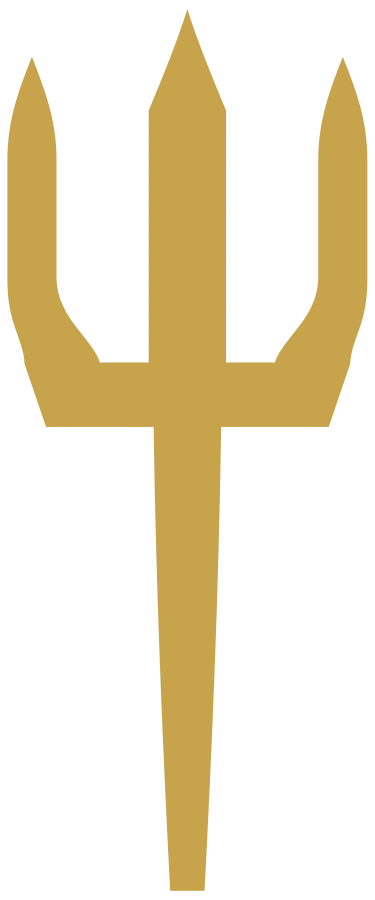
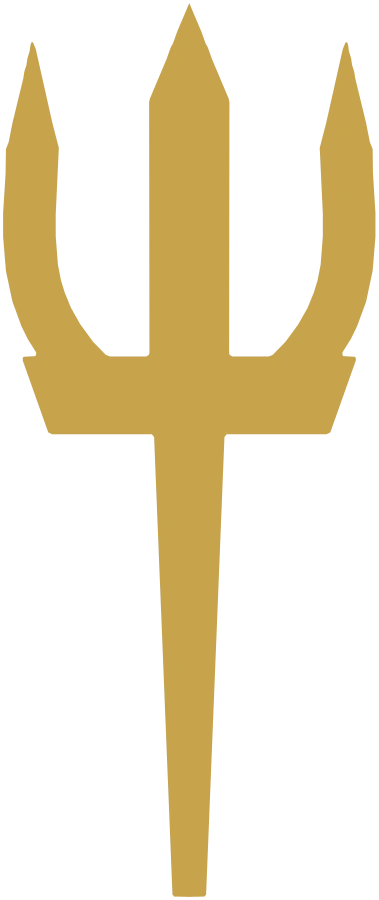
Trident traced from source instead of hand-built: 0.886 -> 0.994 match

diff --git a/index.html b/index.html
@@ -279,7 +279,7 @@ footer small{display:block;font-family:var(--imp);letter-spacing:.3em;text-trans
 <body>
 <div class="strip" id="strip">Casualness <span>Creates</span> Casualties</div>
 <nav class="nav" id="nav"><div class="wrap">
-  <a class="brand" href="index.html"><svg class="mark" viewBox="-61 -3 122 293" fill="#C8A34B" aria-hidden="true"><path d="M0,0 C 3.5,11 8,22 12.6,33 L 12.6,115 L 28.5,115 C 31,107 42,101 42.6,88 L 42.6,49 C 42.6,36 46.5,26 50.6,15.5 C 54.8,26 58.6,36 58.6,49 L 58.6,88 C 58.6,103 53.4,107 53,115.5 L 46,136 L 11,136 C 10.2,190 8,241 5.6,287 L-5.6,287 C-8,241 -10.2,190 -11,136 L-46,136 L-53,115.5 C-53.4,107 -58.6,103 -58.6,88 L-58.6,49 C-58.6,36 -54.8,26 -50.6,15.5 C-46.5,26 -42.6,36 -42.6,49 L-42.6,88 C-42,101 -31,107 -28.5,115 L-12.6,115 L-12.6,33 C-8,22 -3.5,11 -0,0 Z"/></svg><span>Lead <b>Elite</b> Academy</span></a>
+  <a class="brand" href="index.html"><svg class="mark" viewBox="-60.8 -1 121.6 289.1" fill="#C8A34B" aria-hidden="true"><path d="M0.0,0.0L3.9,9.2L5.3,13.1L5.9,14.1L7.3,18.0L12.7,30.8L12.9,31.9L12.8,112.4L13.0,113.0L13.8,113.5L25.5,113.5L26.8,113.0L30.9,108.8L35.0,103.2L38.0,97.9L40.0,93.0L41.2,89.1L42.2,84.0L42.9,74.9L42.9,67.8L41.9,46.5L44.0,38.4L49.3,14.8L50.2,12.6L50.7,12.6L51.0,13.4L51.3,15.5L52.0,17.8L52.3,19.9L53.0,22.1L53.3,24.1L56.8,38.5L58.0,44.6L58.9,46.9L59.0,54.6L59.8,67.4L59.8,75.1L58.9,86.0L56.8,95.9L53.9,103.8L51.9,107.9L49.2,112.2L49.2,113.0L49.5,113.4L53.2,113.6L53.5,114.0L53.5,114.8L45.3,137.9L44.0,138.5L12.0,138.5L11.3,139.4L5.4,286.4L4.8,287.0L-4.8,287.1L4.8,287.1L-4.8,287.0L-5.4,286.4L-11.3,139.4L-12.0,138.5L-44.0,138.5L-45.3,137.9L-53.5,114.8L-53.5,114.0L-53.2,113.6L-49.5,113.4L-49.2,113.0L-49.2,112.2L-51.9,107.9L-53.9,103.8L-56.8,95.9L-58.9,86.0L-59.8,75.1L-59.8,67.4L-59.0,54.6L-58.9,46.9L-58.0,44.6L-56.8,38.5L-53.3,24.1L-53.0,22.1L-52.3,19.9L-52.0,17.8L-51.3,15.5L-51.0,13.4L-50.7,12.6L-50.2,12.6L-49.3,14.8L-44.0,38.4L-41.9,46.5L-42.9,67.8L-42.9,74.9L-42.2,84.0L-41.2,89.1L-40.0,93.0L-38.0,97.9L-35.0,103.2L-30.9,108.8L-26.8,113.0L-25.5,113.5L-13.8,113.5L-13.0,113.0L-12.8,112.4L-12.9,31.9L-12.7,30.8L-7.3,18.0L-5.9,14.1L-5.3,13.1L-3.9,9.2Z"/></svg><span>Lead <b>Elite</b> Academy</span></a>
   <div class="links"><a href="#elite">The framework</a><a href="#year">The year</a><a href="#trainer">Brandon</a><a href="#book">The book</a><a href="#who">Who it’s for</a></div>
   <div class="navbtns cta"><a class="btn" href="#call" data-book>Book a call</a><a class="btn ghost" href="https://portal.leadeliteacademy.com">Member login</a></div>
   <button class="burger" id="burger" aria-label="Open menu">☰</button>
@@ -417,7 +417,7 @@ footer small{display:block;font-family:var(--imp);letter-spacing:.3em;text-trans
   <h2 class="rv d1">Stop being the <em>bottleneck.</em></h2>
   <p class="lead rv d2">One call. Brandon and the team walk you through how the year runs, what your leaders will actually do each week, and what it costs for your company. No deck to sit through.</p>
   <div class="ctas rv d3"><a class="btn" href="#call" data-book>Book a call <svg viewBox="0 0 24 24" fill="none" stroke="currentColor" stroke-width="2"><path d="M5 12h14M13 5l7 7-7 7"/></svg></a><a class="btn ghost" href="https://portal.leadeliteacademy.com">Member login</a></div>
-  <div class="lockup rv d3"><div class="rule"></div><svg class="mark" viewBox="-61 -3 122 293" fill="#C8A34B" aria-hidden="true"><path d="M0,0 C 3.5,11 8,22 12.6,33 L 12.6,115 L 28.5,115 C 31,107 42,101 42.6,88 L 42.6,49 C 42.6,36 46.5,26 50.6,15.5 C 54.8,26 58.6,36 58.6,49 L 58.6,88 C 58.6,103 53.4,107 53,115.5 L 46,136 L 11,136 C 10.2,190 8,241 5.6,287 L-5.6,287 C-8,241 -10.2,190 -11,136 L-46,136 L-53,115.5 C-53.4,107 -58.6,103 -58.6,88 L-58.6,49 C-58.6,36 -54.8,26 -50.6,15.5 C-46.5,26 -42.6,36 -42.6,49 L-42.6,88 C-42,101 -31,107 -28.5,115 L-12.6,115 L-12.6,33 C-8,22 -3.5,11 -0,0 Z"/></svg><div class="slogan">Casualness <span>Creates</span> Casualties</div></div>
+  <div class="lockup rv d3"><div class="rule"></div><svg class="mark" viewBox="-60.8 -1 121.6 289.1" fill="#C8A34B" aria-hidden="true"><path d="M0.0,0.0L3.9,9.2L5.3,13.1L5.9,14.1L7.3,18.0L12.7,30.8L12.9,31.9L12.8,112.4L13.0,113.0L13.8,113.5L25.5,113.5L26.8,113.0L30.9,108.8L35.0,103.2L38.0,97.9L40.0,93.0L41.2,89.1L42.2,84.0L42.9,74.9L42.9,67.8L41.9,46.5L44.0,38.4L49.3,14.8L50.2,12.6L50.7,12.6L51.0,13.4L51.3,15.5L52.0,17.8L52.3,19.9L53.0,22.1L53.3,24.1L56.8,38.5L58.0,44.6L58.9,46.9L59.0,54.6L59.8,67.4L59.8,75.1L58.9,86.0L56.8,95.9L53.9,103.8L51.9,107.9L49.2,112.2L49.2,113.0L49.5,113.4L53.2,113.6L53.5,114.0L53.5,114.8L45.3,137.9L44.0,138.5L12.0,138.5L11.3,139.4L5.4,286.4L4.8,287.0L-4.8,287.1L4.8,287.1L-4.8,287.0L-5.4,286.4L-11.3,139.4L-12.0,138.5L-44.0,138.5L-45.3,137.9L-53.5,114.8L-53.5,114.0L-53.2,113.6L-49.5,113.4L-49.2,113.0L-49.2,112.2L-51.9,107.9L-53.9,103.8L-56.8,95.9L-58.9,86.0L-59.8,75.1L-59.8,67.4L-59.0,54.6L-58.9,46.9L-58.0,44.6L-56.8,38.5L-53.3,24.1L-53.0,22.1L-52.3,19.9L-52.0,17.8L-51.3,15.5L-51.0,13.4L-50.7,12.6L-50.2,12.6L-49.3,14.8L-44.0,38.4L-41.9,46.5L-42.9,67.8L-42.9,74.9L-42.2,84.0L-41.2,89.1L-40.0,93.0L-38.0,97.9L-35.0,103.2L-30.9,108.8L-26.8,113.0L-25.5,113.5L-13.8,113.5L-13.0,113.0L-12.8,112.4L-12.9,31.9L-12.7,30.8L-7.3,18.0L-5.9,14.1L-5.3,13.1L-3.9,9.2Z"/></svg><div class="slogan">Casualness <span>Creates</span> Casualties</div></div>
 </div></section>
 
 <footer><div class="wrap">
@@ -530,7 +530,10 @@ const LEA = {
     const m=gold();
     const add=(geo,x,y,z,rx,ry,rz)=>{ const mesh=new THREE.Mesh(geo,m); mesh.position.set(x,y,z); if(rx!=null) mesh.rotation.set(rx,ry,rz); g.add(mesh); return mesh; };
     // the ELC trident — extruded from the real brand mark, not primitives
-    const s=new THREE.Shape(); s.moveTo(0.0,3.2324); s.bezierCurveTo(0.0788,2.9846,0.1802,2.7369,0.2838,2.4891); s.lineTo(0.2838,0.642); s.lineTo(0.642,0.642); s.bezierCurveTo(0.6983,0.8222,0.9461,0.9573,0.9596,1.2502); s.lineTo(0.9596,2.1287); s.bezierCurveTo(0.9596,2.4215,1.0474,2.6468,1.1398,2.8833); s.bezierCurveTo(1.2344,2.6468,1.32,2.4215,1.32,2.1287); s.lineTo(1.32,1.2502); s.bezierCurveTo(1.32,0.9123,1.2029,0.8222,1.1939,0.6307); s.lineTo(1.0362,0.1689); s.lineTo(0.2478,0.1689); s.bezierCurveTo(0.2298,-1.0474,0.1802,-2.1962,0.1261,-3.2324); s.lineTo(-0.1261,-3.2324); s.bezierCurveTo(-0.1802,-2.1962,-0.2298,-1.0474,-0.2478,0.1689); s.lineTo(-1.0362,0.1689); s.lineTo(-1.1939,0.6307); s.bezierCurveTo(-1.2029,0.8222,-1.32,0.9123,-1.32,1.2502); s.lineTo(-1.32,2.1287); s.bezierCurveTo(-1.32,2.4215,-1.2344,2.6468,-1.1398,2.8833); s.bezierCurveTo(-1.0474,2.6468,-0.9596,2.4215,-0.9596,2.1287); s.lineTo(-0.9596,1.2502); s.bezierCurveTo(-0.9461,0.9573,-0.6983,0.8222,-0.642,0.642); s.lineTo(-0.2838,0.642); s.lineTo(-0.2838,2.4891); s.bezierCurveTo(-0.1802,2.7369,-0.0788,2.9846,-0.0,3.2324); s.closePath();
+    const PT=[[0.0,3.3],[0.0897,3.0885],[0.1218,2.9989],[0.1356,2.9759],[0.1678,2.8862],[0.292,2.592],[0.2966,2.5667],[0.2943,0.7161],[0.2989,0.7023],[0.3172,0.6908],[0.5862,0.6908],[0.6161,0.7023],[0.7103,0.7989],[0.8046,0.9276],[0.8736,1.0494],[0.9195,1.1621],[0.9471,1.2517],[0.9701,1.369],[0.9862,1.5782],[0.9862,1.7414],[0.9632,2.231],[1.0115,2.4172],[1.1333,2.9598],[1.154,3.0103],[1.1655,3.0103],[1.1724,2.992],[1.1793,2.9437],[1.1954,2.8908],[1.2023,2.8425],[1.2184,2.792],[1.2253,2.746],[1.3057,2.4149],[1.3333,2.2747],[1.354,2.2218],[1.3563,2.0448],[1.3747,1.7506],[1.3747,1.5736],[1.354,1.323],[1.3057,1.0954],[1.2391,0.9138],[1.1931,0.8195],[1.131,0.7207],[1.131,0.7023],[1.1379,0.6931],[1.223,0.6885],[1.2299,0.6793],[1.2299,0.6609],[1.0414,0.1299],[1.0115,0.1161],[0.2759,0.1161],[0.2598,0.0954],[0.1241,-3.2839],[0.1103,-3.2977],[-0.1103,-3.3],[0.1103,-3.3],[-0.1103,-3.2977],[-0.1241,-3.2839],[-0.2598,0.0954],[-0.2759,0.1161],[-1.0115,0.1161],[-1.0414,0.1299],[-1.2299,0.6609],[-1.2299,0.6793],[-1.223,0.6885],[-1.1379,0.6931],[-1.131,0.7023],[-1.131,0.7207],[-1.1931,0.8195],[-1.2391,0.9138],[-1.3057,1.0954],[-1.354,1.323],[-1.3747,1.5736],[-1.3747,1.7506],[-1.3563,2.0448],[-1.354,2.2218],[-1.3333,2.2747],[-1.3057,2.4149],[-1.2253,2.746],[-1.2184,2.792],[-1.2023,2.8425],[-1.1954,2.8908],[-1.1793,2.9437],[-1.1724,2.992],[-1.1655,3.0103],[-1.154,3.0103],[-1.1333,2.9598],[-1.0115,2.4172],[-0.9632,2.231],[-0.9862,1.7414],[-0.9862,1.5782],[-0.9701,1.369],[-0.9471,1.2517],[-0.9195,1.1621],[-0.8736,1.0494],[-0.8046,0.9276],[-0.7103,0.7989],[-0.6161,0.7023],[-0.5862,0.6908],[-0.3172,0.6908],[-0.2989,0.7023],[-0.2943,0.7161],[-0.2966,2.5667],[-0.292,2.592],[-0.1678,2.8862],[-0.1356,2.9759],[-0.1218,2.9989],[-0.0897,3.0885]];
+    const s=new THREE.Shape(); s.moveTo(PT[0][0],PT[0][1]);
+    for(let i=1;i<PT.length;i++) s.lineTo(PT[i][0],PT[i][1]);
+    s.closePath();
     const geo=new THREE.ExtrudeGeometry(s,{depth:.30,bevelEnabled:true,bevelThickness:.055,bevelSize:.05,bevelOffset:0,bevelSegments:3,curveSegments:36});
     geo.center();
     const gm=new THREE.MeshStandardMaterial({color:0xB48E36,metalness:.62,roughness:.44,envMap:env,envMapIntensity:.38});

diff --git a/company.html b/company.html
@@ -49,7 +49,7 @@ a{text-decoration:none}
 </head>
 <body>
 <a class="mark" href="https://www.leadeliteacademy.com">
-  <svg viewBox="-61 -3 122 293" fill="#C8A34B" aria-hidden="true"><path d="M0,0 C 3.5,11 8,22 12.6,33 L 12.6,115 L 28.5,115 C 31,107 42,101 42.6,88 L 42.6,49 C 42.6,36 46.5,26 50.6,15.5 C 54.8,26 58.6,36 58.6,49 L 58.6,88 C 58.6,103 53.4,107 53,115.5 L 46,136 L 11,136 C 10.2,190 8,241 5.6,287 L-5.6,287 C-8,241 -10.2,190 -11,136 L-46,136 L-53,115.5 C-53.4,107 -58.6,103 -58.6,88 L-58.6,49 C-58.6,36 -54.8,26 -50.6,15.5 C-46.5,26 -42.6,36 -42.6,49 L-42.6,88 C-42,101 -31,107 -28.5,115 L-12.6,115 L-12.6,33 C-8,22 -3.5,11 -0,0 Z"/></svg>
+  <svg viewBox="-60.8 -1 121.6 289.1" fill="#C8A34B" aria-hidden="true"><path d="M0.0,0.0L3.9,9.2L5.3,13.1L5.9,14.1L7.3,18.0L12.7,30.8L12.9,31.9L12.8,112.4L13.0,113.0L13.8,113.5L25.5,113.5L26.8,113.0L30.9,108.8L35.0,103.2L38.0,97.9L40.0,93.0L41.2,89.1L42.2,84.0L42.9,74.9L42.9,67.8L41.9,46.5L44.0,38.4L49.3,14.8L50.2,12.6L50.7,12.6L51.0,13.4L51.3,15.5L52.0,17.8L52.3,19.9L53.0,22.1L53.3,24.1L56.8,38.5L58.0,44.6L58.9,46.9L59.0,54.6L59.8,67.4L59.8,75.1L58.9,86.0L56.8,95.9L53.9,103.8L51.9,107.9L49.2,112.2L49.2,113.0L49.5,113.4L53.2,113.6L53.5,114.0L53.5,114.8L45.3,137.9L44.0,138.5L12.0,138.5L11.3,139.4L5.4,286.4L4.8,287.0L-4.8,287.1L4.8,287.1L-4.8,287.0L-5.4,286.4L-11.3,139.4L-12.0,138.5L-44.0,138.5L-45.3,137.9L-53.5,114.8L-53.5,114.0L-53.2,113.6L-49.5,113.4L-49.2,113.0L-49.2,112.2L-51.9,107.9L-53.9,103.8L-56.8,95.9L-58.9,86.0L-59.8,75.1L-59.8,67.4L-59.0,54.6L-58.9,46.9L-58.0,44.6L-56.8,38.5L-53.3,24.1L-53.0,22.1L-52.3,19.9L-52.0,17.8L-51.3,15.5L-51.0,13.4L-50.7,12.6L-50.2,12.6L-49.3,14.8L-44.0,38.4L-41.9,46.5L-42.9,67.8L-42.9,74.9L-42.2,84.0L-41.2,89.1L-40.0,93.0L-38.0,97.9L-35.0,103.2L-30.9,108.8L-26.8,113.0L-25.5,113.5L-13.8,113.5L-13.0,113.0L-12.8,112.4L-12.9,31.9L-12.7,30.8L-7.3,18.0L-5.9,14.1L-5.3,13.1L-3.9,9.2Z"/></svg>
   <span>Lead <b>Elite</b> Academy</span>
 </a>
 <div class="stage"><div class="frame">

diff --git a/dealerships.html b/dealerships.html
@@ -49,7 +49,7 @@ a{text-decoration:none}
 </head>
 <body>
 <a class="mark" href="https://www.leadeliteacademy.com">
-  <svg viewBox="-61 -3 122 293" fill="#C8A34B" aria-hidden="true"><path d="M0,0 C 3.5,11 8,22 12.6,33 L 12.6,115 L 28.5,115 C 31,107 42,101 42.6,88 L 42.6,49 C 42.6,36 46.5,26 50.6,15.5 C 54.8,26 58.6,36 58.6,49 L 58.6,88 C 58.6,103 53.4,107 53,115.5 L 46,136 L 11,136 C 10.2,190 8,241 5.6,287 L-5.6,287 C-8,241 -10.2,190 -11,136 L-46,136 L-53,115.5 C-53.4,107 -58.6,103 -58.6,88 L-58.6,49 C-58.6,36 -54.8,26 -50.6,15.5 C-46.5,26 -42.6,36 -42.6,49 L-42.6,88 C-42,101 -31,107 -28.5,115 L-12.6,115 L-12.6,33 C-8,22 -3.5,11 -0,0 Z"/></svg>
+  <svg viewBox="-60.8 -1 121.6 289.1" fill="#C8A34B" aria-hidden="true"><path d="M0.0,0.0L3.9,9.2L5.3,13.1L5.9,14.1L7.3,18.0L12.7,30.8L12.9,31.9L12.8,112.4L13.0,113.0L13.8,113.5L25.5,113.5L26.8,113.0L30.9,108.8L35.0,103.2L38.0,97.9L40.0,93.0L41.2,89.1L42.2,84.0L42.9,74.9L42.9,67.8L41.9,46.5L44.0,38.4L49.3,14.8L50.2,12.6L50.7,12.6L51.0,13.4L51.3,15.5L52.0,17.8L52.3,19.9L53.0,22.1L53.3,24.1L56.8,38.5L58.0,44.6L58.9,46.9L59.0,54.6L59.8,67.4L59.8,75.1L58.9,86.0L56.8,95.9L53.9,103.8L51.9,107.9L49.2,112.2L49.2,113.0L49.5,113.4L53.2,113.6L53.5,114.0L53.5,114.8L45.3,137.9L44.0,138.5L12.0,138.5L11.3,139.4L5.4,286.4L4.8,287.0L-4.8,287.1L4.8,287.1L-4.8,287.0L-5.4,286.4L-11.3,139.4L-12.0,138.5L-44.0,138.5L-45.3,137.9L-53.5,114.8L-53.5,114.0L-53.2,113.6L-49.5,113.4L-49.2,113.0L-49.2,112.2L-51.9,107.9L-53.9,103.8L-56.8,95.9L-58.9,86.0L-59.8,75.1L-59.8,67.4L-59.0,54.6L-58.9,46.9L-58.0,44.6L-56.8,38.5L-53.3,24.1L-53.0,22.1L-52.3,19.9L-52.0,17.8L-51.3,15.5L-51.0,13.4L-50.7,12.6L-50.2,12.6L-49.3,14.8L-44.0,38.4L-41.9,46.5L-42.9,67.8L-42.9,74.9L-42.2,84.0L-41.2,89.1L-40.0,93.0L-38.0,97.9L-35.0,103.2L-30.9,108.8L-26.8,113.0L-25.5,113.5L-13.8,113.5L-13.0,113.0L-12.8,112.4L-12.9,31.9L-12.7,30.8L-7.3,18.0L-5.9,14.1L-5.3,13.1L-3.9,9.2Z"/></svg>
   <span>Lead <b>Elite</b> Academy</span>
 </a>
 <div class="stage"><div class="frame">
